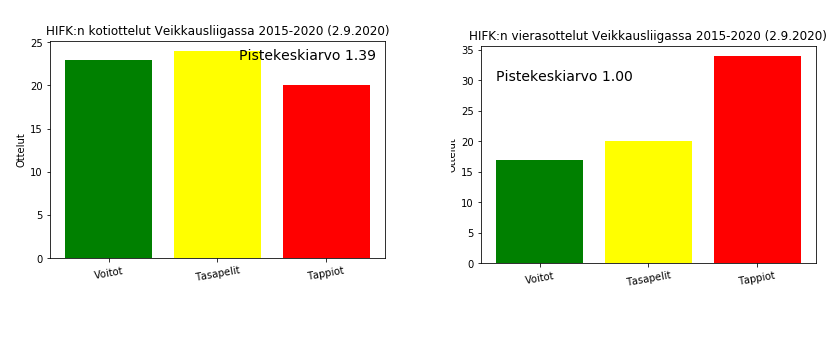
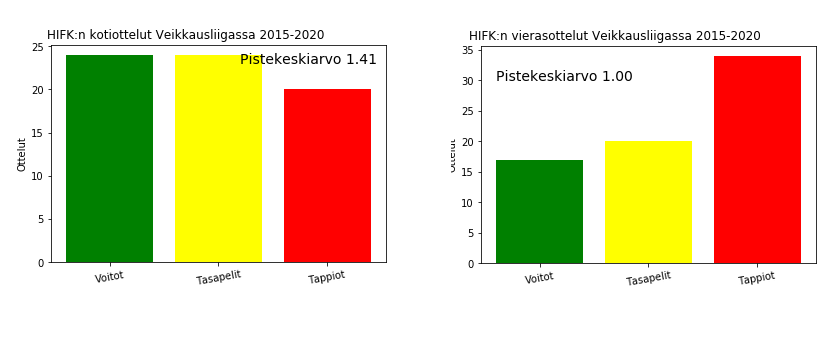
11.9.2020

diff --git a/Results/VeikkausliigaSeasons/Veikkausliiga2020HomeAway.py b/Results/VeikkausliigaSeasons/Veikkausliiga2020HomeAway.py
@@ -12,7 +12,7 @@ from functools import partial
 to_datetime_fmt = partial(pd.to_datetime, format='%d.%m.%Y %H.%M.%S')
 Data['DateTime'] = Data['DateTime'].apply(to_datetime_fmt)
 
-Data = Data.where(Data['Home_match'] == False)
+Data = Data.where(Data['Home_match'] == True)
 
 
 
@@ -50,7 +50,7 @@ x_index = np.arange(len(x))
 plt.bar(x, palkit, color=("green","yellow","red"), align="center")
 plt.xlabel("")
 plt.ylabel("Ottelut")
-plt.title("HIFK:n vierasottelut Veikkausliigassa 2020 (2.9.2020)")
+plt.title("HIFK:n kotiottelut Veikkausliigassa 2020 (11.9.2020)")
 plt.xticks(x_index, x, rotation=10)
 
 

diff --git a/Results/ResultsByManagers/Veikkausliiga_Results.py b/Results/ResultsByManagers/Veikkausliiga_Results.py
@@ -51,7 +51,7 @@ x_index = np.arange(len(x))
 plt.bar(x, palkit, color=("green","yellow","red"), align="center")
 plt.xlabel("")
 plt.ylabel("Ottelut")
-plt.title("HIFK:n Veikkausliiga-ottelut 2015-2020 (27.8.2020)")
+plt.title("HIFK:n Veikkausliiga-ottelut 2015-2020 (11.9.2020)")
 plt.xticks(x_index, x, rotation=10)
 
 

diff --git a/Goals/GoalsPerMinutesOpponents.py b/Goals/GoalsPerMinutesOpponents.py
@@ -2,7 +2,7 @@ import numpy as np
 import pandas as pd
 import matplotlib.pyplot as plt
 
-Data = pd.read_csv('AllGoalsVeikkausliigaOpponents.csv', encoding='latin-1', 
+Data = pd.read_csv('testi2.csv', encoding='latin-1', 
                    usecols = ['Id', 'Winner', 'Penalty', 'Minute'])
 
 
